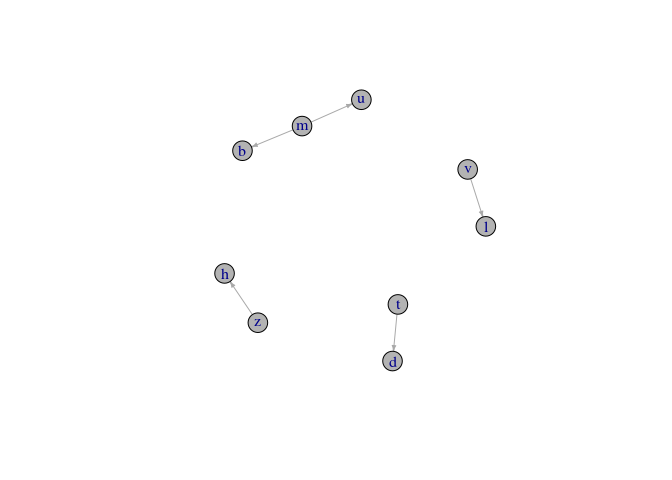
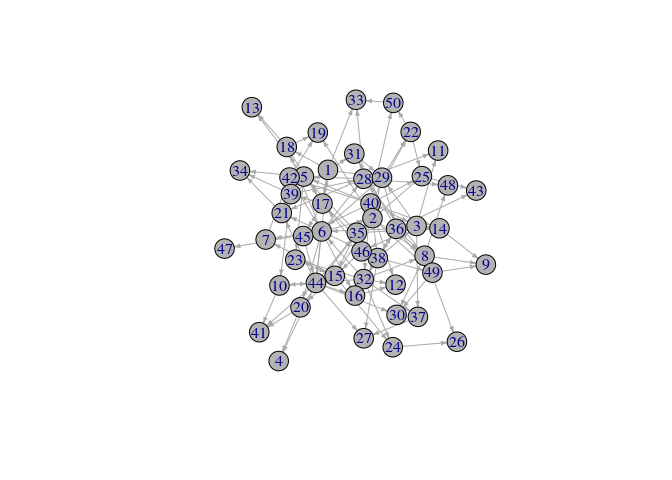
updated README with latest changes

Changed region(s): [[0.3125, 0.1875, 0.75, 0.7812]]

diff --git a/README.md b/README.md
@@ -38,23 +38,23 @@ library(NetworkInference)
 
 # Simulate random cascade data
 set.seed(423399)
-df <- simulate_rnd_cascades(50, n_node = 26) # Simulates random cascade data
+df <- simulate_rnd_cascades(50, n_node = 50) # Simulates random cascade data
 node_names <- unique(df$node_name)
 
 # Cast data into `cascades` object
 ## From dataframe
-cascades <- as_cascade_long(df, node_names = node_names)
+cascades <- as_cascade_long(df)
 
 ## From matrix
 df_matrix <- as.matrix(cascades) ### Create example matrix
-cascades <- as_cascade_wide(df_matrix, node_names = node_names)
+cascades <- as_cascade_wide(df_matrix)
 ```
 
 Cascades can be explored using `summary` and `plot`. See the vignette and package documentation for full functionality.
 
 ``` r
 cascade_ids <- names(cascades[[1]])
-selection <- cascade_ids[c(1, 10)]
+selection <- cascade_ids[c(2, 5)]
 plot(cascades, label_nodes = TRUE, selection = selection)
 ```
 
@@ -70,58 +70,71 @@ plot(cascades, label_nodes = FALSE, selection = selection)
 The actual netinf algorithm is used with:
 
 ``` r
-result <- netinf(cascades, trans_mod = "exponential", lambda = 1, n_edges = 5)
+result <- netinf(cascades, quiet = TRUE)
 ```
 
 The resulting network comes in form of an edgelist:
 
 ``` r
-print(result)
+head(result)
 ```
 
-<table style="width:64%;">
+<table style="width:81%;">
 <colgroup>
 <col width="19%" />
 <col width="26%" />
-<col width="18%" />
+<col width="19%" />
+<col width="15%" />
 </colgroup>
 <thead>
 <tr class="header">
 <th align="center">origin_node</th>
 <th align="center">destination_node</th>
 <th align="center">improvement</th>
+<th align="center">p_value</th>
 </tr>
 </thead>
 <tbody>
 <tr class="odd">
-<td align="center">z</td>
-<td align="center">h</td>
-<td align="center">213.1</td>
+<td align="center">40</td>
+<td align="center">22</td>
+<td align="center">325.6</td>
+<td align="center">8.937e-07</td>
 </tr>
 <tr class="even">
-<td align="center">m</td>
-<td align="center">b</td>
-<td align="center">207.6</td>
+<td align="center">40</td>
+<td align="center">25</td>
+<td align="center">317.2</td>
+<td align="center">2.611e-06</td>
 </tr>
 <tr class="odd">
-<td align="center">v</td>
-<td align="center">l</td>
-<td align="center">192.8</td>
+<td align="center">6</td>
+<td align="center">20</td>
+<td align="center">316.3</td>
+<td align="center">2.645e-06</td>
 </tr>
 <tr class="even">
-<td align="center">t</td>
-<td align="center">d</td>
-<td align="center">188.8</td>
+<td align="center">44</td>
+<td align="center">1</td>
+<td align="center">315.3</td>
+<td align="center">2.569e-06</td>
 </tr>
 <tr class="odd">
-<td align="center">m</td>
-<td align="center">u</td>
-<td align="center">182.7</td>
+<td align="center">2</td>
+<td align="center">19</td>
+<td align="center">308</td>
+<td align="center">2.66e-06</td>
+</tr>
+<tr class="even">
+<td align="center">5</td>
+<td align="center">13</td>
+<td align="center">296.5</td>
+<td align="center">7.112e-06</td>
 </tr>
 </tbody>
 </table>
 
-The network as well as the improvement in fit by each edge can be visualized:
+The network as well as the improvement in fit and the p-value from the vuong test per edge can be visualized:
 
 ``` r
 plot(result, type = "network")
@@ -134,3 +147,9 @@ plot(result, type = "improvement")
 ```
 
 ![](readme_figures/README-unnamed-chunk-9-2.png)
+
+``` r
+plot(result, type = "p-value")
+```
+
+![](readme_figures/README-unnamed-chunk-9-3.png)
